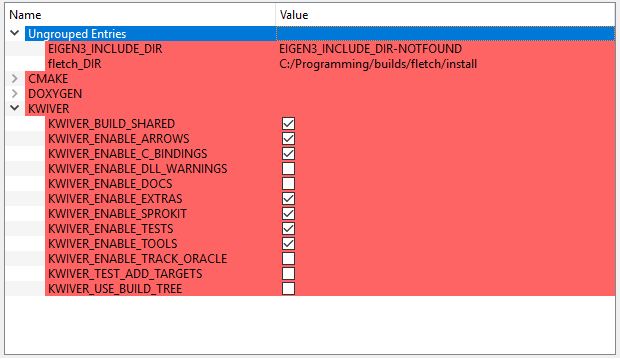
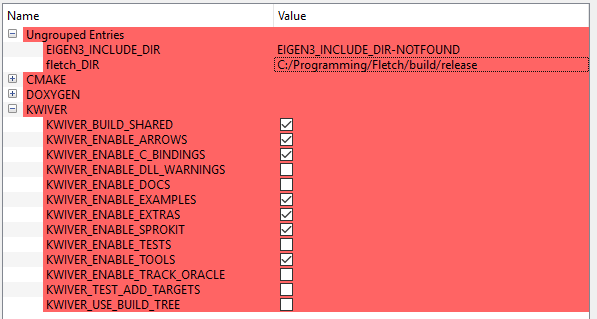
Update ReadMe building and running
Also update the darknet sha to a zip that follows the new examples directory structure

diff --git a/README.rst b/README.rst
@@ -105,6 +105,7 @@ for third-party projects prefixed with ``KWIVER_ENABLE_`` that enable
 building the Arrows plugins that depend on those projects.  When building
 with the support of Fletch_ (set ``fletch_DIR``) the enable options for
 packages built by Fletch should be turned on by default.
+The fletch_DIR is the fletch build directory root, which contains the fletchConfig.cmake file.
 
 The following sections will walk you through the basic options for a minimal kwiver build.
 
@@ -116,7 +117,7 @@ Note, This assumes your fletch was built with python support (Turn OFF if not)
 You will also need to replace the fletch path with your own::
 
     $ cmake </path/to/kwiver/source> -DCMAKE_BUILD_TYPE=Release \
-            -Dfletch_DIR:PATH=<path/to/fletch/builds/install> 
+            -Dfletch_DIR:PATH=<path/to/fletch/build/dir> 
             -DKWIVER_ENABLE_ARROWS:BOOL=ON -DKWIVER_ENABLE_C_BINDINGS:BOOL=ON \
             -DKWIVER_ENABLE_EXTRAS:BOOL=ON -DKWIVER_ENABLE_LOG4CPLUS:BOOL=ON \
             -DKWIVER_ENABLE_PROCESSES:BOOL=ON -DKWIVER_ENABLE_PYTHON:BOOL=ON \
@@ -151,7 +152,7 @@ configuration button, new options will be highlighted in the red sections.
 
    a. Note, if compiling with MSVC, you will not have a CMAKE_BUILD_TYPE option
   
-.. image:: doc/manuals/images/cmake/cmake_step_2.png
+.. image:: doc/manuals/_images/cmake/cmake_step_2.png
    :alt: KWIVER CMake Configuration Step 2
   
 3. Select these new options, and click 'Generate'
@@ -159,7 +160,7 @@ configuration button, new options will be highlighted in the red sections.
    a. This assumes your fletch was build with python support,
       if not, do not check that option
 
-.. image:: doc/manuals/images/cmake/cmake_step_3.png
+.. image:: doc/manuals/_images/cmake/cmake_step_3.png
    :alt: KWIVER CMake Configuration Step 3
 
 Compiling
@@ -198,12 +199,12 @@ to allow KWIVER to work conveniently within in the shell/cmd window.
 You can run this simple pipeline to ensure your system is configured properly::
 
   # via a bash shell
-  </path/to/kwiver/build>/bin/pipeline_runner -p </path/to/kwiver/source>/sprokit/pipelines/number_flow.pipe
+  </path/to/kwiver/build>/bin/pipeline_runner -p ../examples/pipelines/number_flow.pipe
   #
   # on windows, you will need to also be in the configuration folder
-  </path/to/kwiver/build>/bin/release/pipeline_runner -p </path/to/kwiver/source>/sprokit/pipelines/number_flow.pipe
+  </path/to/kwiver/build>/bin/release/pipeline_runner -p ..\..\examples\pipelines\number_flow.pipe
 
-This will generate a 'numbers.txt' file in the current directory (/bin or /bin/release).
+This will generate a 'numbers.txt' file in the </path/to/kwiver/build>/examples/pipelines/output directory.
 
 KWIVER Users
 ============
